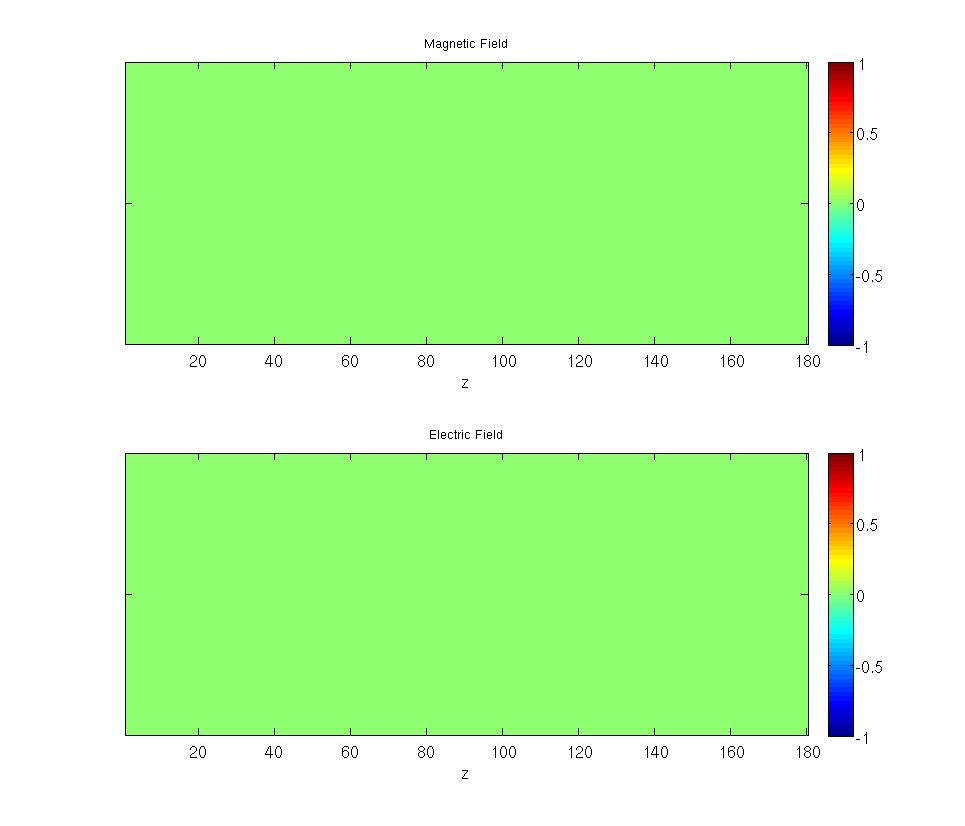
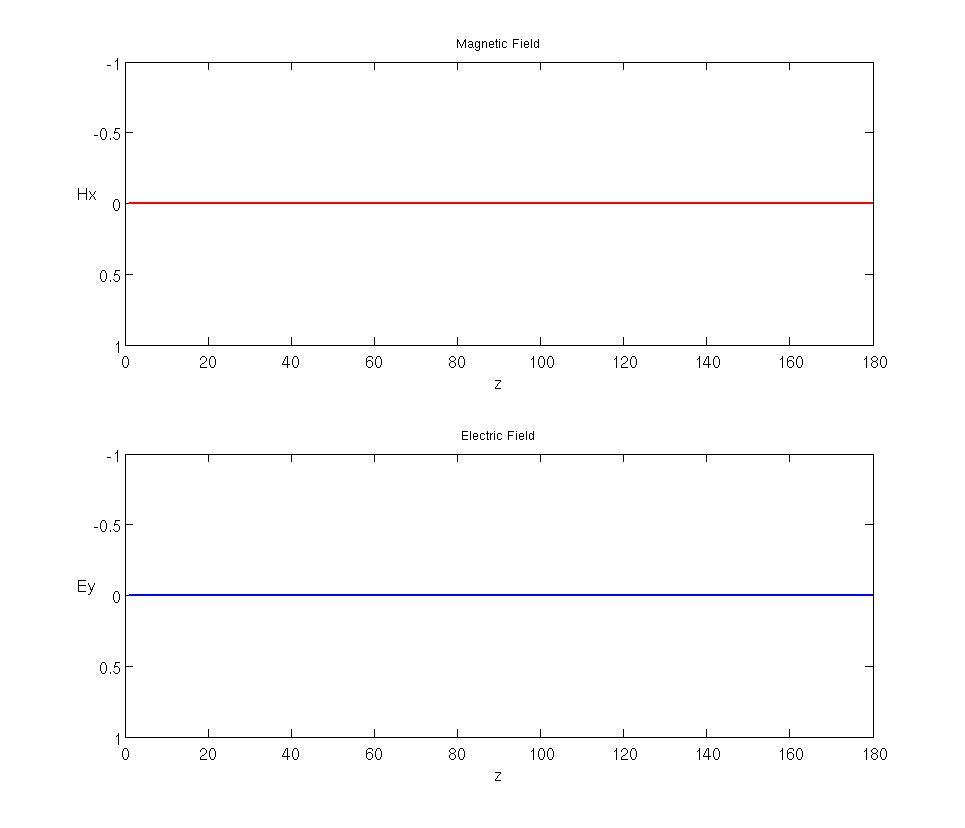
a

diff --git a/P2/FDTD1D.m b/P2/FDTD1D.m
@@ -32,8 +32,8 @@ UR = ones([1 Nz]);
 %%%%%%%%%%%%%%%%%%%%%%%%%%%%%%%%%%%%%%%%%%%%%%%%
 
 % Compute Update Coefficients
-mER = (c0*dt)./ER;
-mHR = (c0*dt)./UR;
+mER = (c0*dt/dz)./ER;
+mHR = (c0*dt/dz)./UR;
 
 % Initialize Feilds
 Ey = zeros([1 Nz]);
@@ -44,26 +44,19 @@ Hx = zeros([1 Nz]);
 %%%%%%%%%%%%%%%%%%%%%%%%%%%%%%%%%%%%%%%%%%%%%%%%
 
 for t = 1:STEPS
-  for nz = 1:Nz
-    Hx1 = nz-1;
-    Ey1 = nz+1;
-    
-    %Handle Boundary
-    if(Hx1==0)
-      Hx1=Nz;
-    end
-    
-    if(Ey1>Nz)
-      Ey1 = 1;
-    end
-    
-    
-    % Calculate H
-    Hx(nz) = Hx(nz) + mHR(nz)*(Ey(Ey1)-Ey(nz))/dz;
 
-    % Calculate E
-    Ey(nz) = Ey(nz) + mER(nz)*(Hx(nz)-Hx(Hx1))/dz; 
+  % Calculate H
+  for nz = 1:Nz-1
+    Hx(nz) = Hx(nz) + mHR(nz)*(Ey(nz+1)-Ey(nz));
   end
+  Hx(Nz) = Hx(Nz) + mHR(Nz)*(0 - Ey(Nz));
+
+  % Calculate E  
+  Ey(1) = Ey(1) + mER(1)*(Hx(1) - 0);
+  for nz = 2:Nz
+    Ey(nz) = Ey(nz) + mER(nz)*(Hx(nz)-Hx(nz-1)); 
+  end
+  
 end
 
 %%%%%%%%%%%%%%%%%%%%%%%%%%%%%%%%%%%%%%%%%%%%%%%%
@@ -74,26 +67,24 @@ fig = figure;
 SetFigure(fig, 'HW#3-P2', [680 274 965 826]);
 
 %Plot Magnetic Field
-subplot(211);ylabel('ytest');title('title1');
-h = imagesc(Hx);
-colorbar;
+subplot(211)
+h = plot(Hx, '-r', 'LineWidth', 2);
 title('Magnetic Field');
 h = get(h, 'Parent');
 set(h, 'Fontsize', 14);
 xlabel('z');
-ylabel('', 'Rotation', 0);
-set(gca,'YTickLabel',{'','',''})
+ylabel('Hx', 'Rotation', 0);
+set(gca,'YTickLabel',{'1','0.5','0', '-0.5', '-1'})
 
 %Plot Electric Field
-subplot(212);ylabel('ytest2');title('title2');
-h = imagesc(Ey);
-colorbar;
+subplot(212)
+h = plot(Ey, '-b', 'LineWidth', 2);
 title('Electric Field');
 h = get(h, 'Parent');
 set(h, 'Fontsize', 14);
 xlabel('z');
-ylabel('', 'Rotation', 0);
-set(gca,'YTickLabel',{'','',''})
+ylabel('Ey', 'Rotation', 0);
+set(gca,'YTickLabel',{'1','0.5','0', '-0.5', '-1'})
 
 
 
